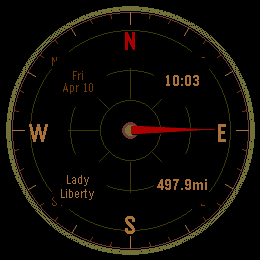
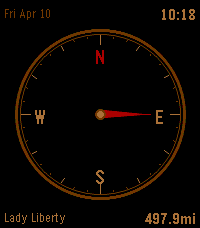
fix: skip Tech degree labels in corners on rect to prevent overlap
Degree labels (330, 000, 030 etc) skip rendering when their
position falls within 50px of corners where date/time/name/
distance text is displayed.

diff --git a/src/c/main.c b/src/c/main.c
@@ -404,16 +404,20 @@ static void draw_tech(GContext *ctx, GRect b, float dest_bearing, float dist_m,
   graphics_context_set_stroke_color(ctx, gc);
   graphics_draw_circle(ctx, GPoint(cx,cy), r);
 
-  // Degree ticks + numbers
+  // Degree ticks + numbers (skip labels in corners on rect)
   GFont f_sm = fonts_get_system_font(FONT_KEY_GOTHIC_14);
   for(int d=0; d<360; d+=30) {
     float a = d - s_heading;
     int tx = cx + (int)((r-16) * psin(a));
     int ty = cy - (int)((r-16) * pcos(a));
-    char dbuf[4]; snprintf(dbuf, sizeof(dbuf), "%03d", d);
-    graphics_context_set_text_color(ctx, gc);
-    graphics_draw_text(ctx, dbuf, f_sm,
-      GRect(tx-14,ty-8,28,16), GTextOverflowModeTrailingEllipsis, GTextAlignmentCenter, NULL);
+    // Skip degree labels near corners (where date/time/name/dist go)
+    bool in_corner = (!rnd && ((tx<50&&ty<24)||(tx>w-50&&ty<24)||(tx<50&&ty>h-24)||(tx>w-50&&ty>h-24)));
+    if(!in_corner) {
+      char dbuf2[4]; snprintf(dbuf2, sizeof(dbuf2), "%03d", d);
+      graphics_context_set_text_color(ctx, gc);
+      graphics_draw_text(ctx, dbuf2, f_sm,
+        GRect(tx-14,ty-8,28,16), GTextOverflowModeTrailingEllipsis, GTextAlignmentCenter, NULL);
+    }
     int ix = cx + (int)(r * psin(a));
     int iy = cy - (int)(r * pcos(a));
     int ox = cx + (int)((r-5) * psin(a));
